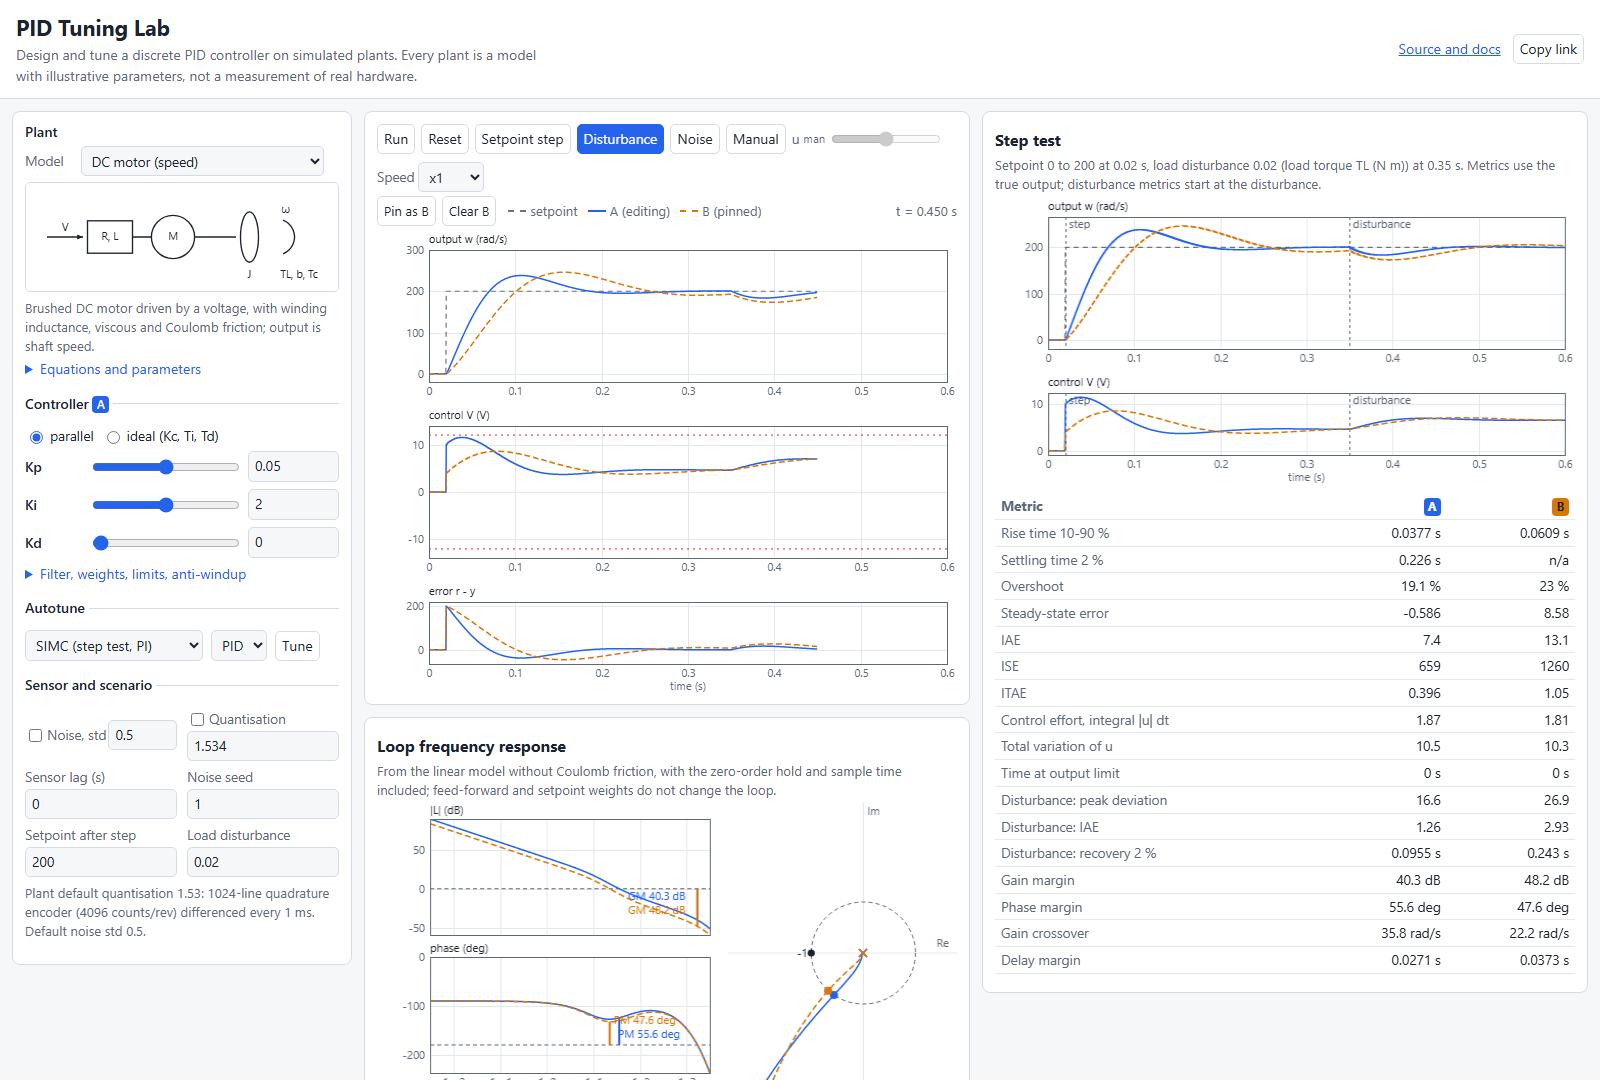
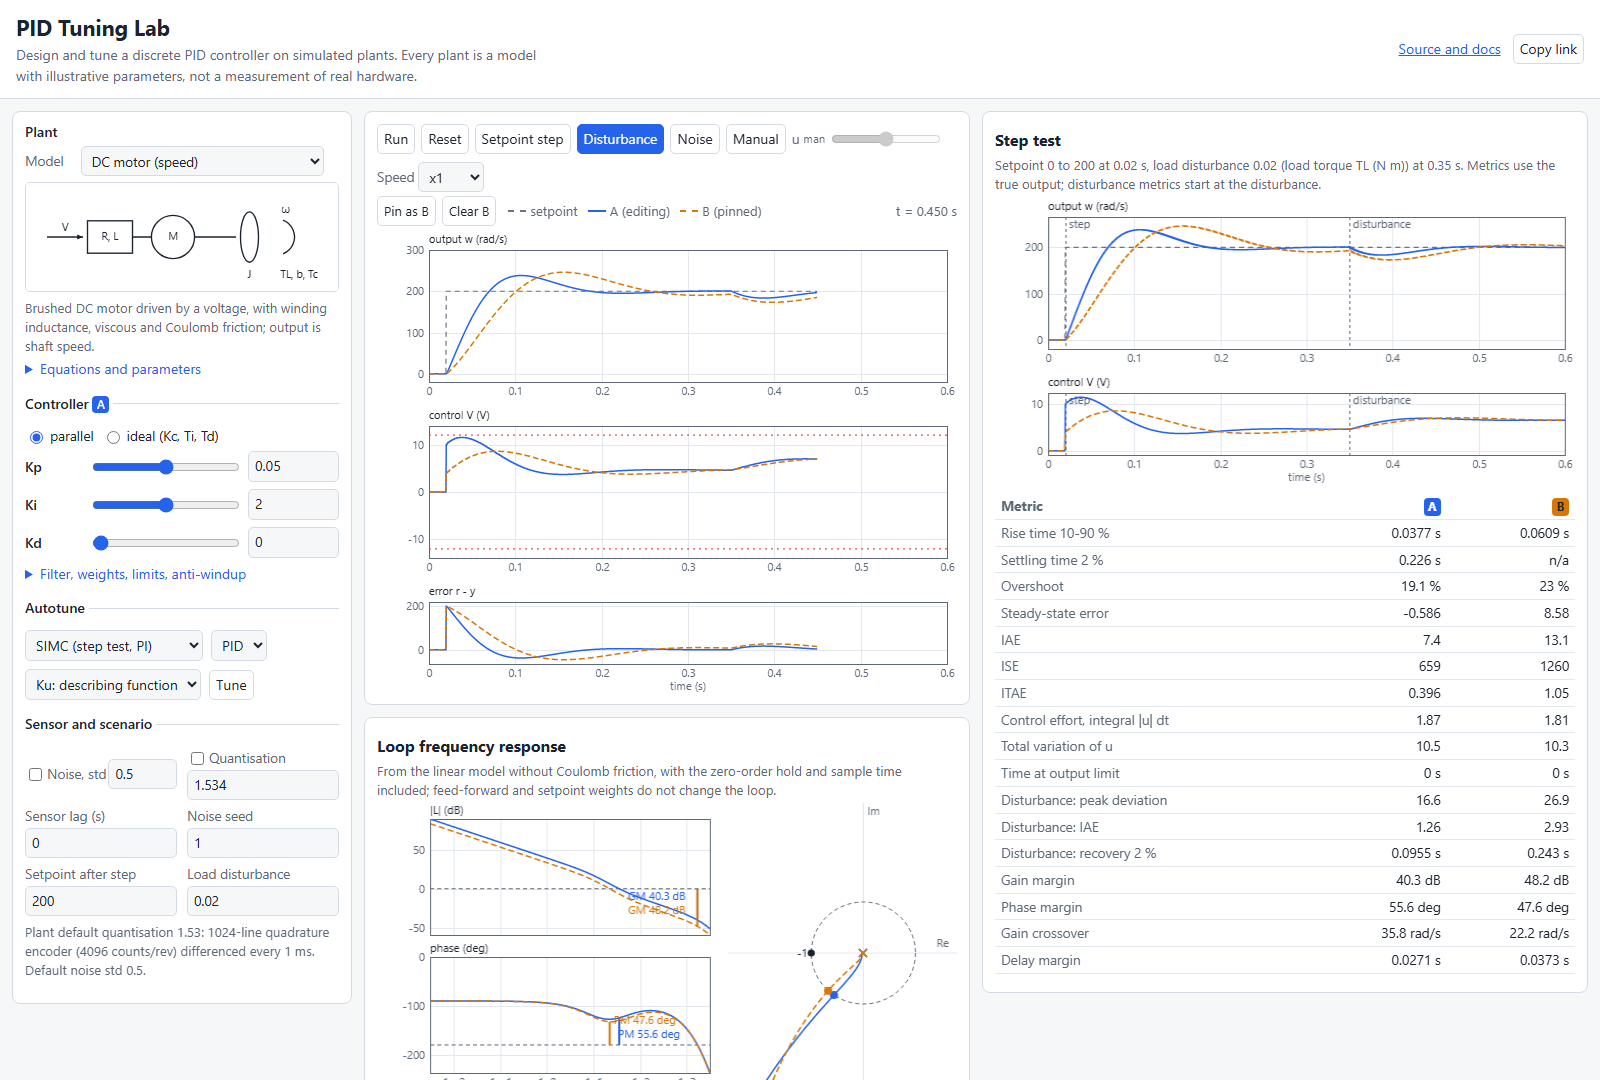
Show the relay validity check and a Ku estimate selector in the app
Screenshots retaken: the autotune row now has the Ku selector.

Changed region(s): [[0.0, 0.6111, 0.2188, 0.9167]]

diff --git a/src/ui/app.js b/src/ui/app.js
@@ -691,8 +691,9 @@ button("btn-tune").addEventListener("click", () => {
   const method = select("tune-method").value;
   const typeRaw = select("tune-type").value;
   const type = typeRaw === "pi" || typeRaw === "p" ? typeRaw : "pid";
+  const kuEstimate = select("tune-ku").value === "harmonic" ? "harmonic" : "describing-function";
   try {
-    const res = autotune(A, method, type);
+    const res = autotune(A, method, type, { kuEstimate });
     A = { ...res.settings, form: A.form };
     const lines = [];
     if (res.model) {
@@ -701,14 +702,24 @@ button("btn-tune").addEventListener("click", () => {
       );
     }
     if (res.relay) {
+      const v = res.relay.validity;
+      const shift = Number.isFinite(v.delaySensitivity)
+        ? `${(100 * v.delaySensitivity).toFixed(1)} %`
+        : "stops the oscillation";
       lines.push(
-        `Relay test: Ku ${formatValue(res.relay.ku)}, Pu ${formatValue(res.relay.pu, "s")}.`,
+        `Relay test: Ku ${formatValue(res.relay.ku)} (${res.relay.kuEstimate === "harmonic" ? "first harmonic" : "describing function"}), Pu ${formatValue(res.relay.pu, "s")}.`,
+        `Validity check ${v.valid ? "passed" : "FAILED"}: ${formatValue(v.samplesPerPeriod)} samples per period; one extra sample of delay changes Pu by ${shift}.`,
       );
     }
     lines.push(
       `${method} ${res.type.toUpperCase()}: Kp ${formatValue(res.gains.kp)}, Ki ${formatValue(res.gains.ki)}, Kd ${formatValue(res.gains.kd)}.`,
     );
     out.textContent = lines.join(" ");
+    for (const n of res.notes) {
+      const p = document.createElement("p");
+      p.textContent = n;
+      out.append(p);
+    }
     for (const w of res.warnings) {
       const p = document.createElement("p");
       p.className = "warn";

diff --git a/index.html b/index.html
@@ -107,6 +107,10 @@
               <option value="pi">PI</option>
               <option value="p">P</option>
             </select>
+            <select id="tune-ku" aria-label="Ku estimate for relay methods">
+              <option value="describing-function">Ku: describing function</option>
+              <option value="harmonic">Ku: first harmonic</option>
+            </select>
             <button type="button" id="btn-tune">Tune</button>
           </div>
           <div id="tune-result" class="note" aria-live="polite"></div>
